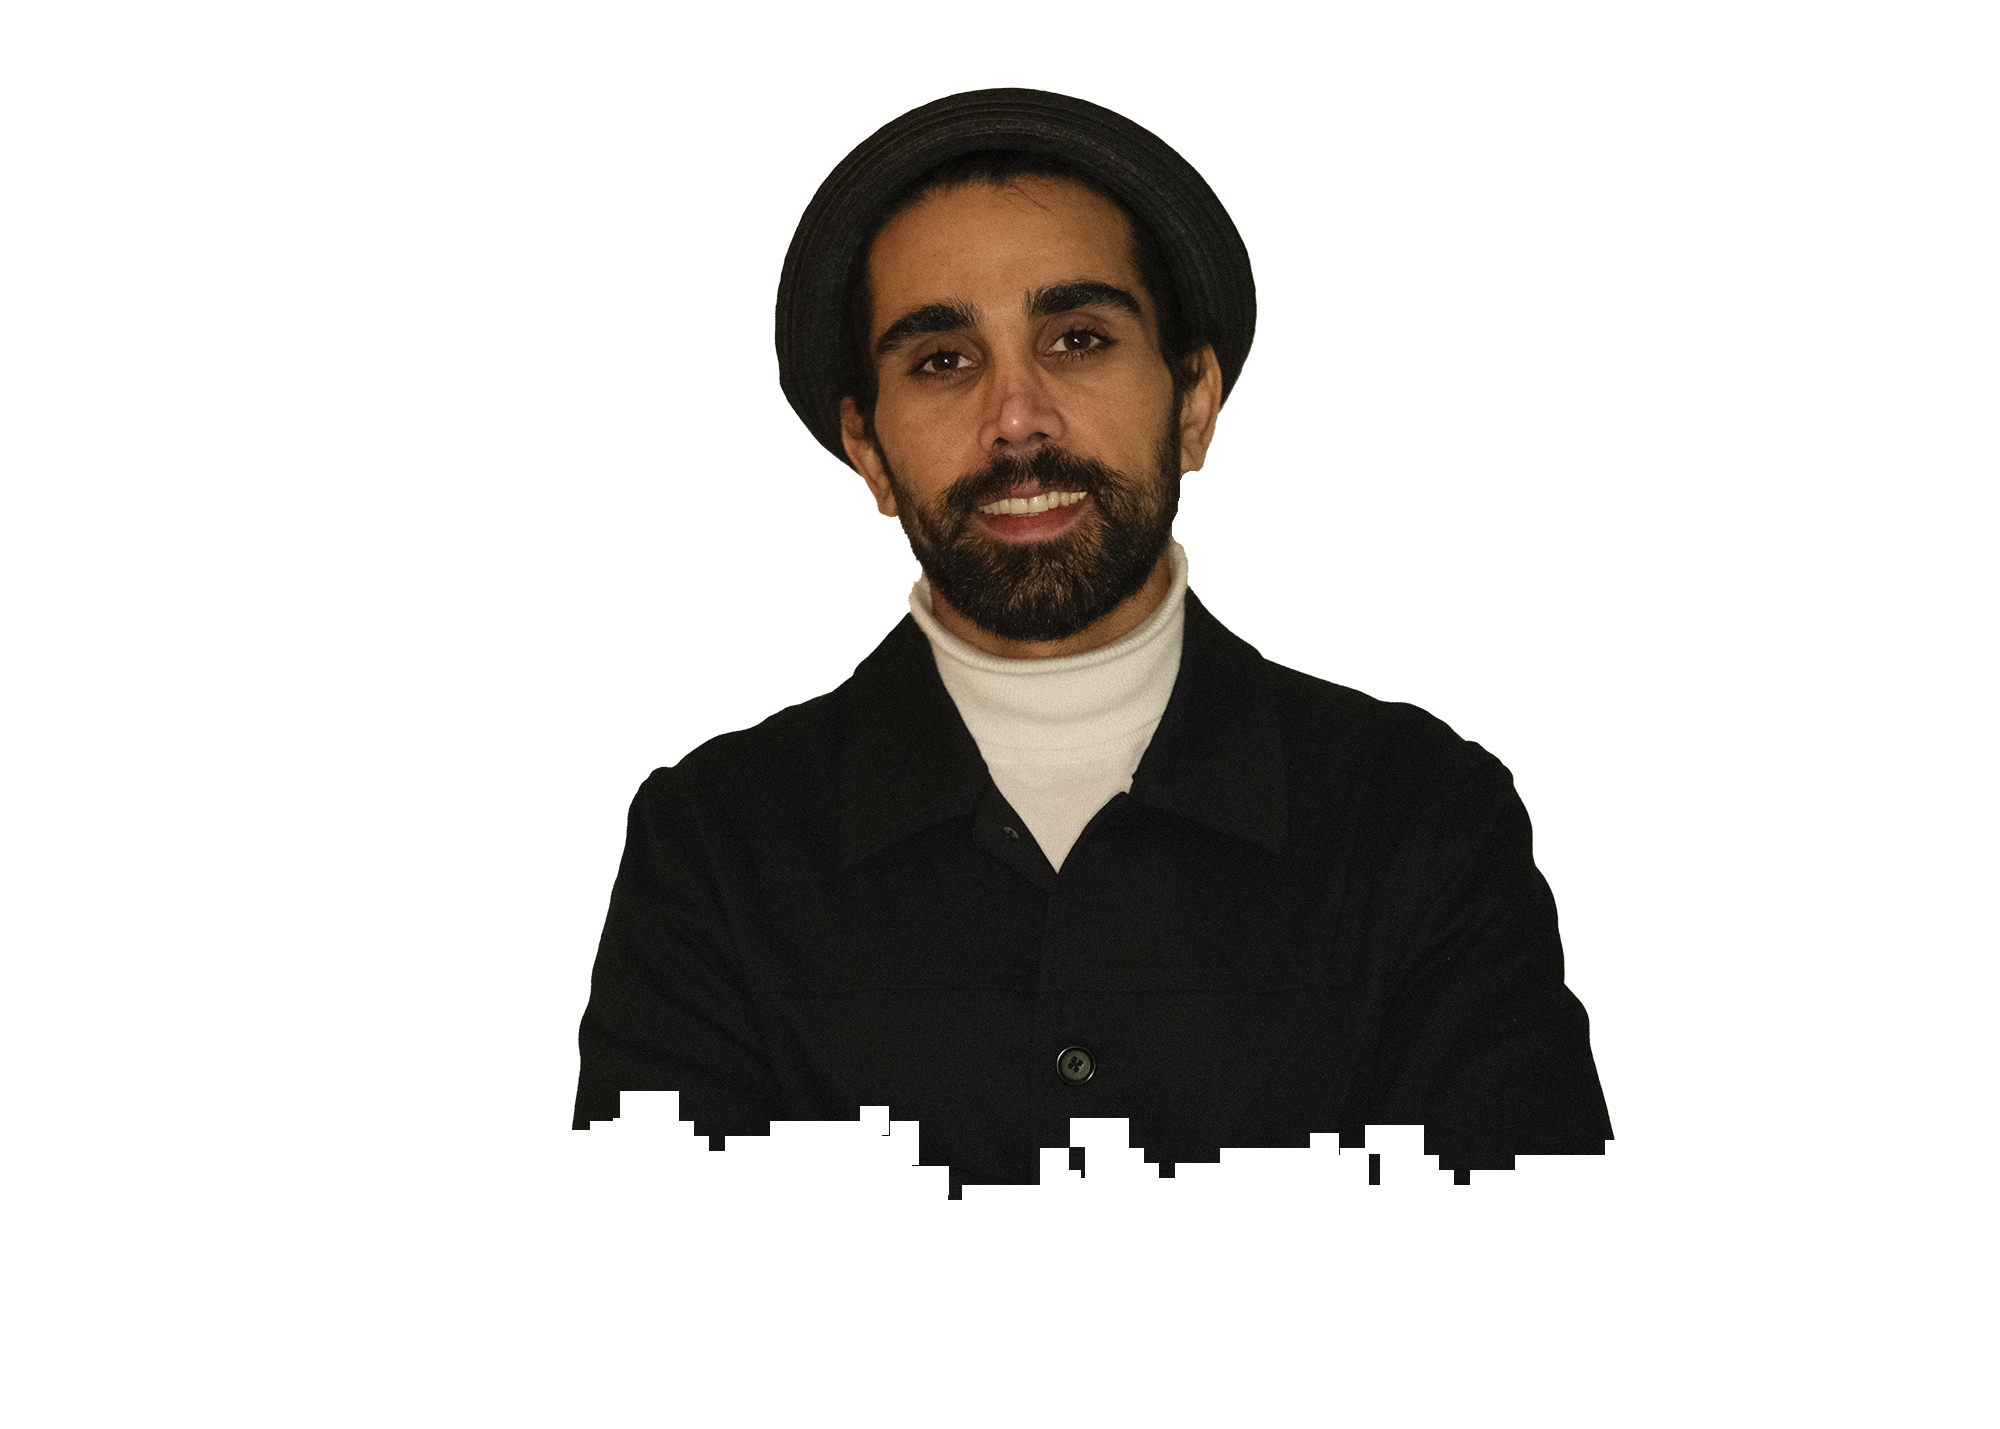
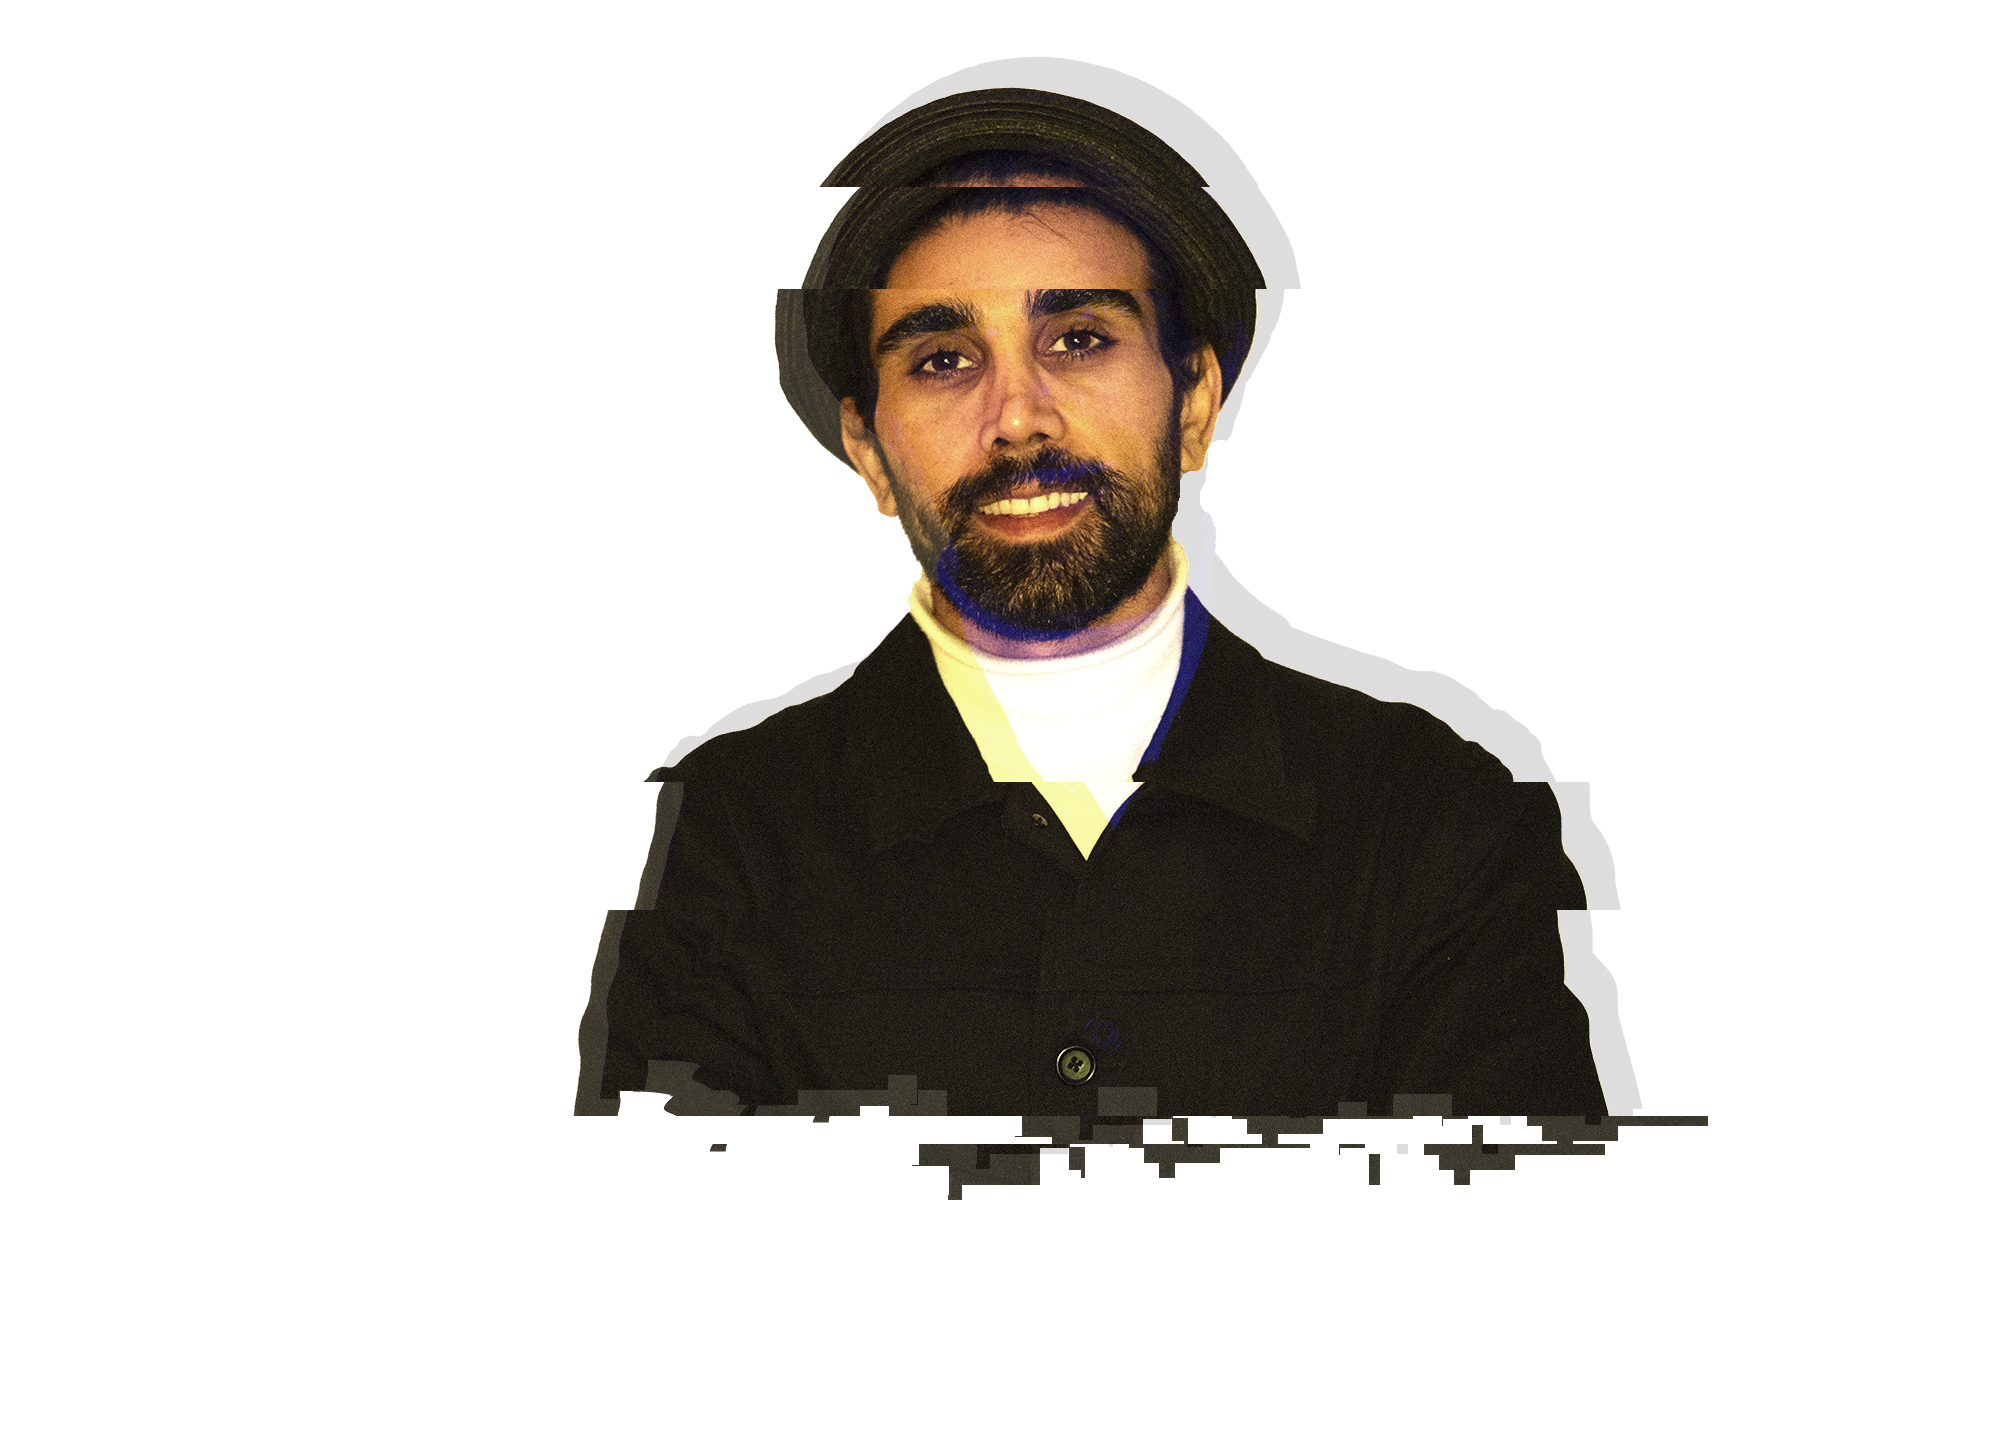
slideshow of two images that automatically switch between each other every 5 seconds.

Changed region(s): [[0.279, 0.0308, 0.868, 0.8314], [0.341, 0.4619, 0.434, 0.5234]]

diff --git a/script.js b/script.js
@@ -58,6 +58,27 @@ for (var i = 0; i < square.length; i++) {
 
 
 
+var currentImage = 0;
+var totalImages = 2;
+
+function changeImage() {
+  currentImage++;
+  if (currentImage > totalImages) {
+    currentImage = 1;
+  }
+  document.getElementById("Arsam1").style.display = "none";
+  document.getElementById("Arsam2").style.display = "none";
+  document.getElementById("Arsam" + currentImage).style.display = "block";
+}
+// Change images every 5 seconds
+changeImage();
+
+setInterval(changeImage, 5000);
+
+
+
+
+
 
 // Create a new instance of Typed.js
 var typed = new Typed('#typed', {

diff --git a/index.html b/index.html
@@ -125,7 +125,8 @@
           <div class="row align-self-center">
             <div class="col-lg-6">
               <div class="imgbox">
-                <img class="arsam-img " src="images/Arsam1.png" alt="">
+                <img id="Arsam1" class="arsam-img " src="images/Arsam1.png" alt="">
+                <img id="Arsam2" class="arsam-img " src="images/Arsam2.png" alt="">
               </div>
             </div>
             <div class="col-lg-6">

diff --git a/style.css b/style.css
@@ -326,8 +326,9 @@ section#about {
 
 .imgbox {
   position: relative;
-  width: 100%;
-  height: 80%;
+  width: 115%;
+  height: 115%;
+  margin-right: 40px;
 }
 
 
